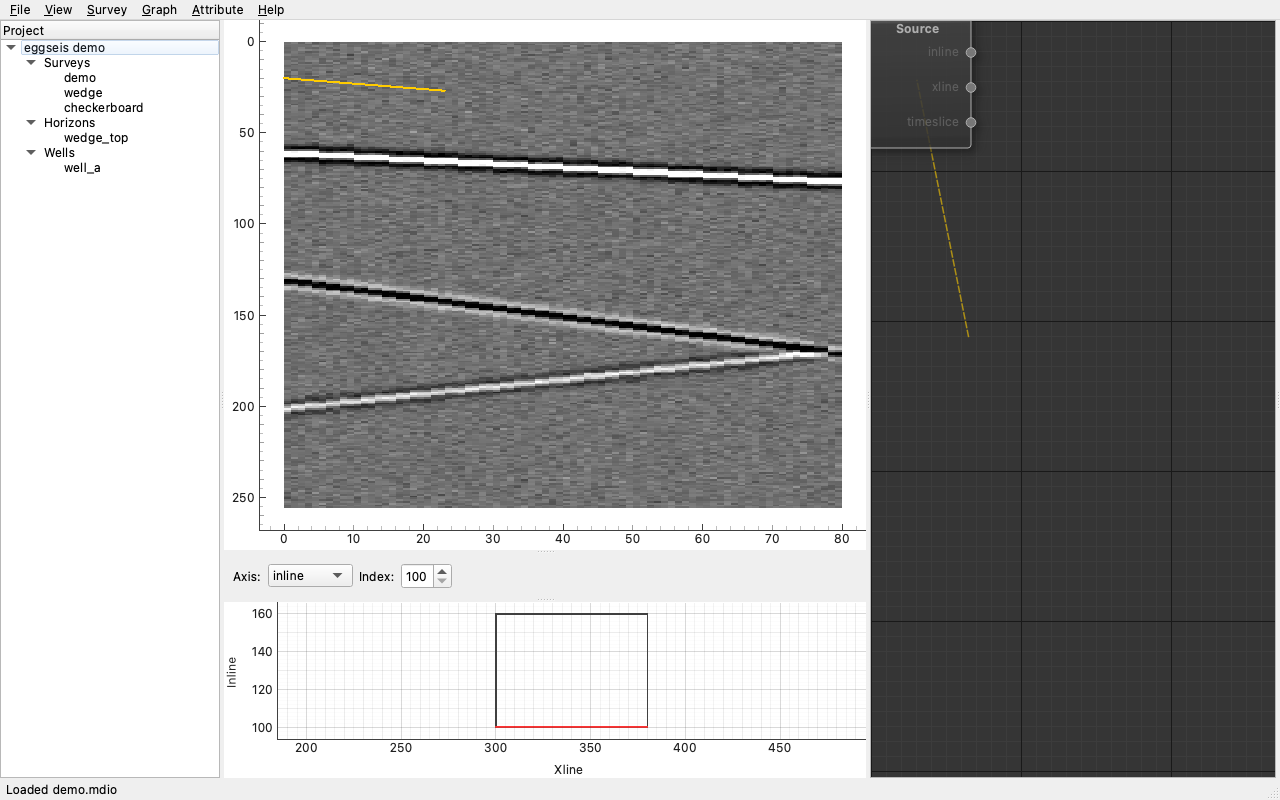
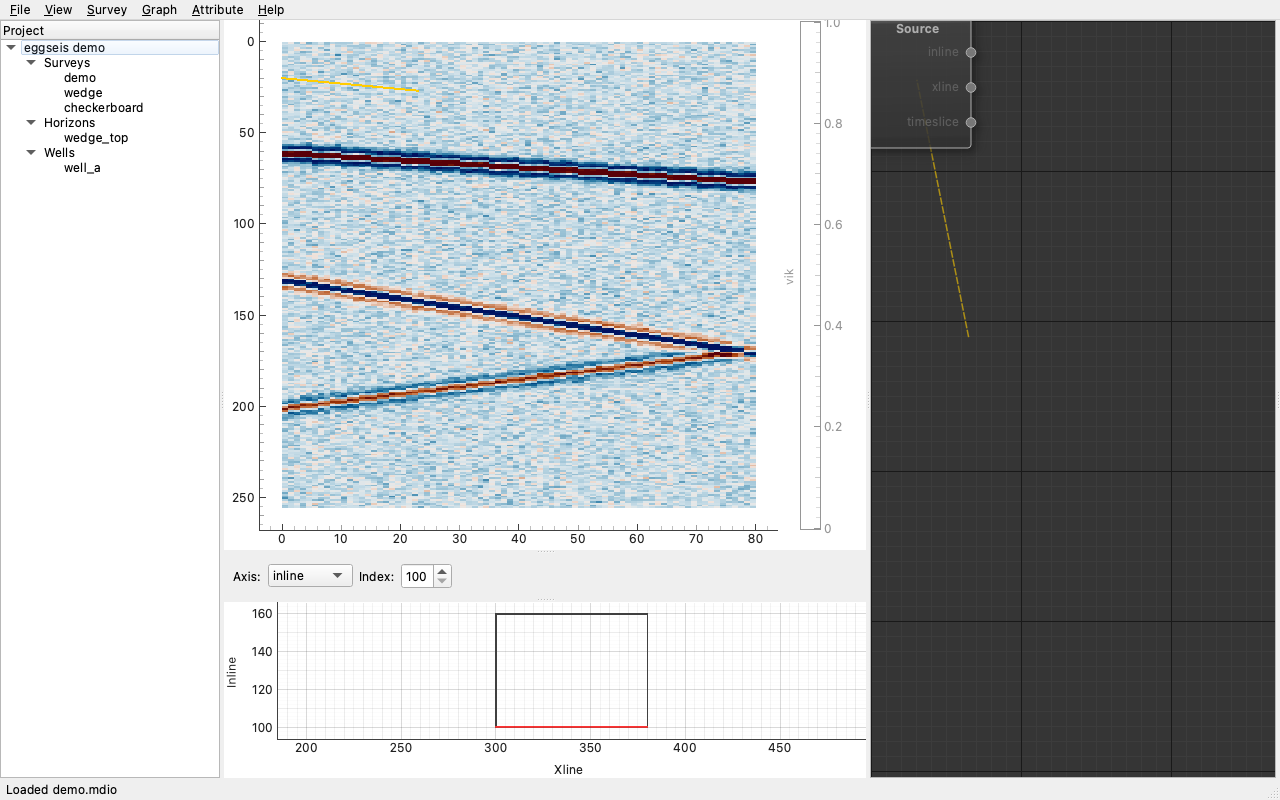
feat(section): colorbar + set_colormap + DEFAULT_AMPLITUDE on volume swap

Changed region(s): [[0.2188, 0.0312, 0.6562, 0.6875]]

diff --git a/src/eggseis/viewers/section.py b/src/eggseis/viewers/section.py
@@ -8,7 +8,7 @@ from PySide6.QtCore import Signal
 from PySide6.QtWidgets import QLabel, QVBoxLayout, QWidget
 
 from eggseis.axes import Axis
-from eggseis.colormaps import get_lut
+from eggseis.colormaps import DEFAULT_AMPLITUDE, get_lut
 from eggseis.data import SeismicVolume
 from eggseis.data.horizon import Horizon
 from eggseis.data.well import Well
@@ -19,7 +19,7 @@ from eggseis.viewers.horizon_overlay import (
 from eggseis.viewers.theme import apply_to_plot_widget
 from eggseis.viewers.theme import colors as _theme_colors
 
-DEFAULT_LUT = "gray"
+DEFAULT_LUT = "gray"  # legacy; use DEFAULT_AMPLITUDE for new code
 _MOUSE_RATE_HZ = 60
 _PERCENTILE_SUBSAMPLE = 8  # stride into raveled slice when estimating 1/99 percentiles
 
@@ -50,8 +50,9 @@ class SectionViewer(QWidget):
         layout.addWidget(self._status_label)
 
         self._volume: SeismicVolume | None = None
-        self._lut_name = DEFAULT_LUT
-        self._image.setLookupTable(get_lut(self._lut_name))
+        self._lut_name = DEFAULT_LUT  # legacy; superseded by _current_cmap below
+        self._current_cmap: str = DEFAULT_AMPLITUDE
+        self._apply_lut(self._current_cmap)
         self._axis: Axis = Axis.INLINE
         self._index: int = 0
         self._last_emit_key: tuple | None = None
@@ -62,6 +63,18 @@ class SectionViewer(QWidget):
         # clip) are visibly intuitive instead of being normalized away.
         self._baseline_levels: tuple[float, float] | None = None
         self._levels_locked: bool = True
+
+        # Colorbar to the right of the plot area.
+        self._colorbar = pg.ColorBarItem(
+            interactive=False,
+            label=self._current_cmap,
+            width=18,
+        )
+        self._colorbar.setImageItem(self._image, insert_in=self._plot.getPlotItem())
+
+        # Re-apply on theme change to refresh axis pen colors.
+        from eggseis.style import theme_signals
+        theme_signals.themeChanged.connect(self._reapply_theme)
 
         self._proxy = pg.SignalProxy(
             self._plot.scene().sigMouseMoved,
@@ -131,6 +144,7 @@ class SectionViewer(QWidget):
         return self._volume.geometry if self._volume else None
 
     def set_volume(self, volume: SeismicVolume) -> None:
+        self.set_colormap(DEFAULT_AMPLITUDE)
         self._volume = volume
         self._axis = Axis.INLINE
         self._index = volume.geometry.inline_min
@@ -218,9 +232,26 @@ class SectionViewer(QWidget):
             else:
                 item.setData(x=[], y=[])
 
+    @property
+    def current_cmap(self) -> str:
+        return self._current_cmap
+
     def set_colormap(self, name: str) -> None:
-        self._lut_name = name
+        try:
+            get_lut(name)
+        except KeyError:
+            name = DEFAULT_AMPLITUDE
+        self._current_cmap = name
+        self._lut_name = name  # keep legacy attribute in sync
+        self._apply_lut(name)
+        self._colorbar.setLabel("left", name)
+
+    def _apply_lut(self, name: str) -> None:
         self._image.setLookupTable(get_lut(name))
+
+    def _reapply_theme(self, _mode=None) -> None:
+        apply_to_plot_widget(self._plot)
+        self.set_colormap(self._current_cmap)  # refresh colorbar text
 
     # --- transient warning banner ----------------------------------------
 

diff --git a/tests/test_section_colorbar.py b/tests/test_section_colorbar.py
@@ -1,0 +1,42 @@
+"""SectionViewer cmap selection + colorbar."""
+
+from __future__ import annotations
+
+import pytest
+
+pytest.importorskip("PySide6")
+
+
+def test_set_colormap_changes_active_lut(qtbot):
+    from eggseis.viewers.section import SectionViewer
+    sv = SectionViewer()
+    qtbot.addWidget(sv)
+    sv.set_colormap("vik")
+    assert sv.current_cmap == "vik"
+
+
+def test_unknown_cmap_falls_back_to_default(qtbot):
+    from eggseis.viewers.section import SectionViewer
+    sv = SectionViewer()
+    qtbot.addWidget(sv)
+    sv.set_colormap("nonexistent")
+    from eggseis.colormaps import DEFAULT_AMPLITUDE
+    assert sv.current_cmap == DEFAULT_AMPLITUDE
+
+
+def test_default_amplitude_for_raw_source(qtbot):
+    """Raw Source path uses DEFAULT_AMPLITUDE."""
+    from eggseis.colormaps import DEFAULT_AMPLITUDE
+    from eggseis.viewers.section import SectionViewer
+    sv = SectionViewer()
+    qtbot.addWidget(sv)
+    assert sv.current_cmap == DEFAULT_AMPLITUDE
+
+
+def test_theme_changed_signal_refreshes_colorbar(qtbot):
+    from eggseis.style import Theme, apply_theme
+    from eggseis.viewers.section import SectionViewer
+    sv = SectionViewer()
+    qtbot.addWidget(sv)
+    apply_theme(Theme.LIGHT)
+    apply_theme(Theme.DARK)
